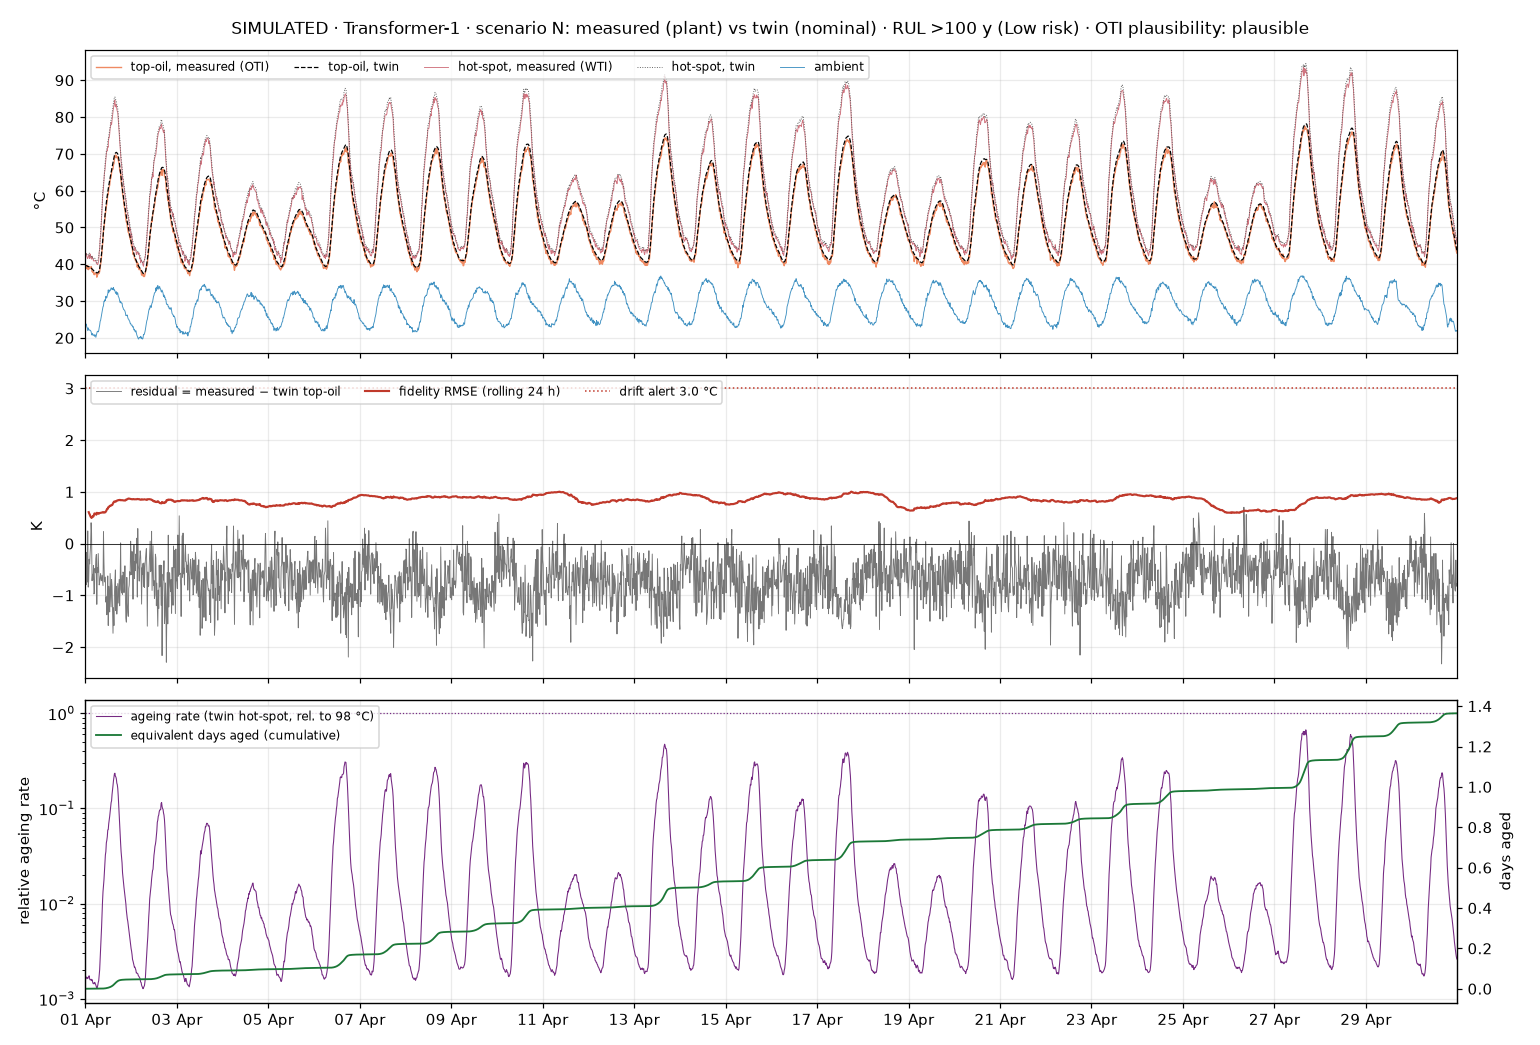
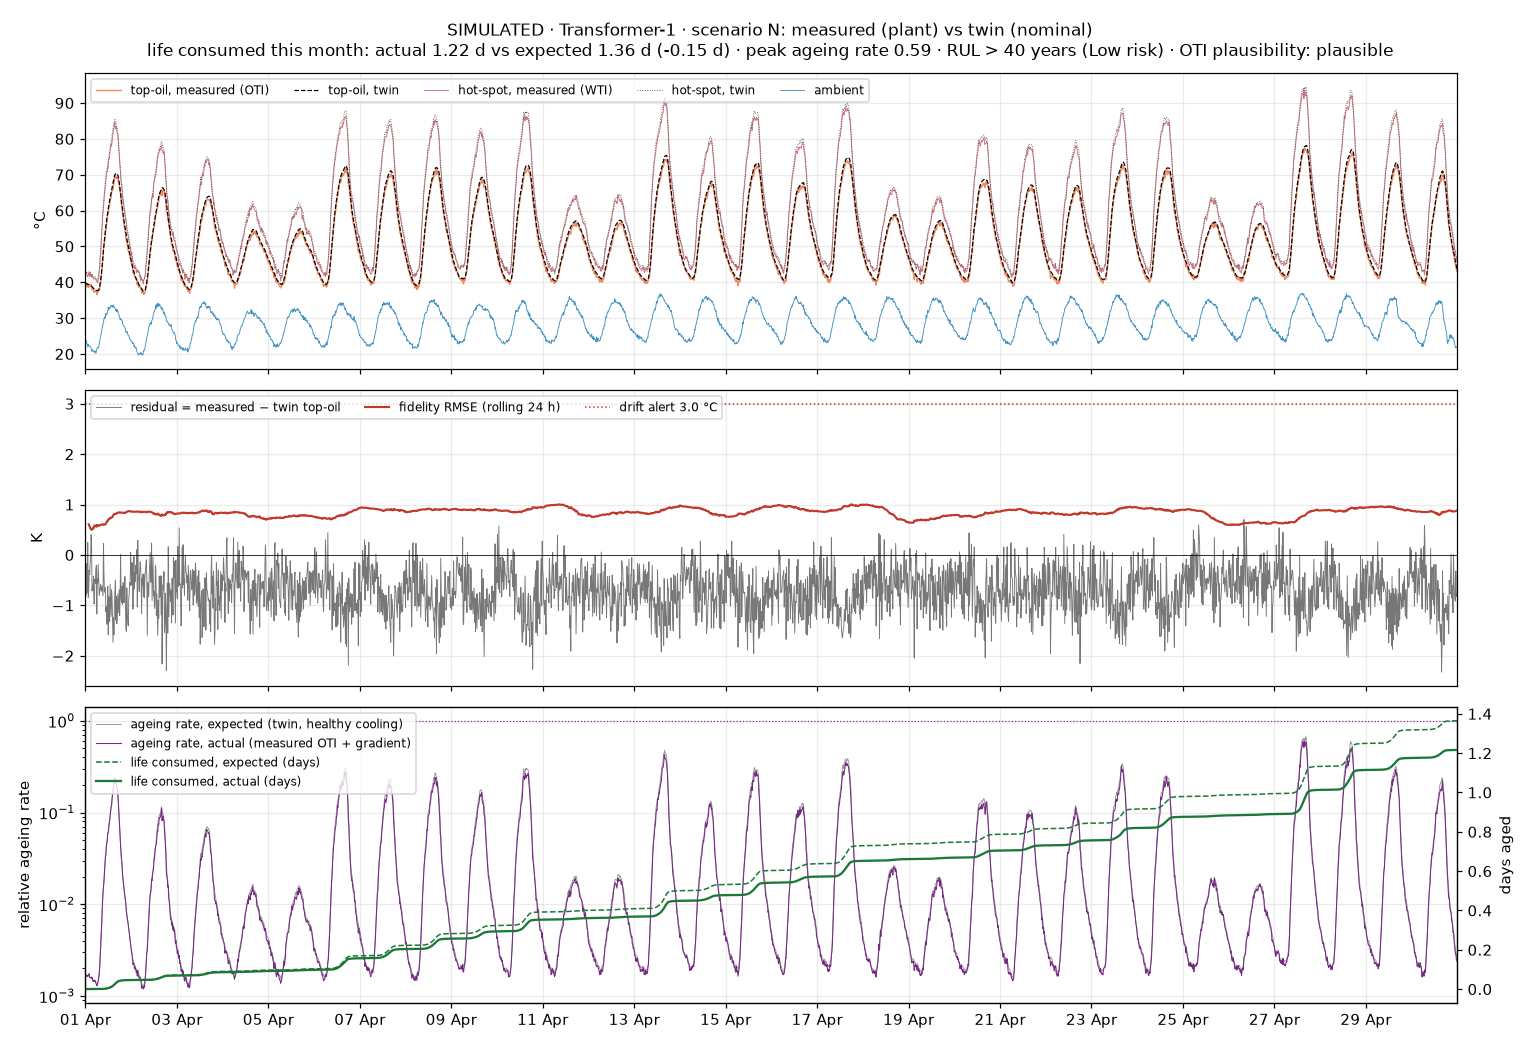
Actual vs expected ageing; RUL display cap
- actual ageing from measured OTI + twin winding gradient, per row, only where
  the OTI channel has passed the plausibility check (causal warm-up) and the row
  has no sensor-fault flag and is not below the physics band; otherwise twin
- life consumed per period (expected vs actual); S2 cooling fault: +0.45 d/month
- RUL from actual ageing; display capped at "> 40 years", raw value kept
- Kaggle plateau rows never age on measured OTI; 76 tests pass

diff --git a/twin/engine.py b/twin/engine.py
@@ -6,6 +6,14 @@
 Per timestep (§7.2): twin_oil_C, twin_hs_C, aging_rate, days_aged_cum, residual_oil_C (= OTI − twin, NaN in
 meter-only), fidelity_rmse_C (rolling 24 h), load_pu; plus twin_restart, fidelity_alert and the physics
 plausibility band (rise_low_K / rise_high_K, implausible_rise; PRD §7.4).
+
+Two ageing figures (IEC 60076-7 practice: hot-spot = measured top-oil + winding gradient when top-oil is trustworthy):
+  expected (aging_rate, days_aged_cum): twin hot-spot = healthy cooling.
+  actual (aging_rate_actual, days_aged_actual_cum): measured OTI + twin gradient (twin_hs - twin_oil), per row, only
+  where the OTI channel has passed the plausibility check so far (causal, after a warm-up), the row has no sensor-fault
+  flag and is not below the physics band (a rise above it may be a real asset fault, e.g. cooling, so it is kept);
+  otherwise the twin hot-spot (see ageing_source).
+The gap actual - expected is the life a fault cost. RUL uses actual ageing.
 Twin parameters are nominal (asset.yaml + library defaults); the generator's plant is deliberately different.
 """
 from collections import deque
@@ -22,7 +30,8 @@ from twin import ageing, plausibility, rul, thermal
 ROOT = Path(__file__).resolve().parent.parent
 DRIFT_MESSAGE = "model drift — check cooling / recalibrate"
 OUT_COLS = ["twin_oil_C", "twin_hs_C", "aging_rate", "days_aged_cum", "residual_oil_C", "fidelity_rmse_C",
-            "load_pu", "twin_restart", "fidelity_alert", "dt_min", "rise_low_K", "rise_high_K", "implausible_rise"]
+            "load_pu", "twin_restart", "fidelity_alert", "dt_min", "rise_low_K", "rise_high_K", "implausible_rise",
+            "hs_ageing_C", "ageing_source", "aging_rate_actual", "days_aged_actual_cum"]
 
 
 def load_config(path=ROOT / "config" / "twin.yaml") -> dict:
@@ -32,6 +41,14 @@ def load_config(path=ROOT / "config" / "twin.yaml") -> dict:
 def _band_transformer(i_rated, p):
     return thermal.make_transformer(i_rated, 1000.0 * p["R"], 1000.0, top_oil_temp_rise=p["top_oil_temp_rise"],
                                     amb_temp_surcharge=p["amb_temp_surcharge"])
+
+
+def life_consumed(res: pd.DataFrame) -> dict:
+    """Equivalent days of insulation life used over the period: expected (healthy twin) vs actual (measured)."""
+    exp = float(res["days_aged_cum"].iloc[-1]) if len(res) else 0.0
+    act = float(res["days_aged_actual_cum"].iloc[-1]) if len(res) else 0.0
+    return {"expected": round(exp, 3), "actual": round(act, 3), "actual_minus_expected": round(act - exp, 3),
+            "measured_share": round(float((res["ageing_source"] == "measured").mean()), 3) if len(res) else 0.0}
 
 
 def _bad_temp(flags: str) -> bool:
@@ -96,6 +113,16 @@ class TwinEngine:
         ok = ~np.isnan(rise) & ~np.isnan(out["rise_low_K"]) & ~flags.map(_bad_temp).to_numpy()
         tol = plausibility.TOL_K
         out["implausible_rise"] = ok & ((rise < out["rise_low_K"] - tol) | (rise > out["rise_high_K"] + tol))
+        n_ev, n_bad = np.cumsum(ok), np.cumsum(out["implausible_rise"])
+        channel_ok = (n_ev >= self.cfg["plausibility_warmup_rows"]) & (n_bad <= plausibility.SUSPECT_FRACTION * n_ev)
+        use = ok & ~(rise < out["rise_low_K"] - tol) & channel_ok   # below band = impossible = sensor; above = maybe asset fault
+        out["hs_ageing_C"] = np.where(use, oti + out["twin_hs_C"] - out["twin_oil_C"], out["twin_hs_C"])
+        out["ageing_source"] = np.where(use, "measured", np.where(valid, "twin", ""))
+        out["aging_rate_actual"] = np.full(n, np.nan)
+        if len(vi):
+            out["aging_rate_actual"][vi] = ageing.rate(out["hs_ageing_C"][vi], self.insulation)
+        out["days_aged_actual_cum"] = np.cumsum(
+            np.where(valid, np.nan_to_num(out["aging_rate_actual"]) * np.nan_to_num(out["dt_min"]) / 1440, 0.0))
         res = pd.concat([t, pd.DataFrame(out)], axis=1)
         res.attrs.update(self._summary(res, mode, ok))
         return res
@@ -106,7 +133,8 @@ class TwinEngine:
         verdict = ("not checked" if not n_ev else "suspect" if frac > plausibility.SUSPECT_FRACTION else "plausible")
         r = rul.estimate(res, self.asset.get("years_in_service", 0), self.cfg)
         drift = bool(res["fidelity_alert"].any())
-        return {"mode": mode, "rul": r, "plausibility": {"OTI_C": verdict, "implausible_fraction": frac,
+        return {"mode": mode, "rul": r, "rul_display": rul.display(r, self.cfg),
+                "life_consumed_days": life_consumed(res), "plausibility": {"OTI_C": verdict, "implausible_fraction": frac,
                                                           "evaluable_rows": n_ev},
                 "fidelity_rmse_C_last": float(res["fidelity_rmse_C"].dropna().iloc[-1]) if res["fidelity_rmse_C"].notna().any() else None,
                 "drift_message": DRIFT_MESSAGE if drift else None,
@@ -118,6 +146,7 @@ class TwinEngine:
         self._band_st = {k: thermal.Stepper(tr) for k, tr in self.bands.items()}
         self._last_valid_ts = None
         self._cum = 0.0
+        self._cum_act = 0.0
         self._sq = deque()           # (ts, residual²) inside the fidelity window
         self._hist = []              # rows for RUL
         self._ev = [0, 0]            # evaluable, implausible (plausibility verdict)
@@ -131,7 +160,7 @@ class TwinEngine:
         oti = np.nan if oti is None or mode == "meter_only" else float(oti)
         mode = mode or ("full" if not np.isnan(oti) else "meter_only")
         tw = {c: np.nan for c in OUT_COLS}
-        tw.update(twin_restart=False, fidelity_alert=False, implausible_rise=False)
+        tw.update(twin_restart=False, fidelity_alert=False, implausible_rise=False, ageing_source="")
         if not (np.isnan(amps) or np.isnan(amb)):
             gap = None if self._last_valid_ts is None else ts - self._last_valid_ts
             if gap is None or gap > pd.Timedelta(hours=self.cfg["restart_gap_h"]):
@@ -153,7 +182,17 @@ class TwinEngine:
                 tw["implausible_rise"] = bool(rise < tw["rise_low_K"] - tol or rise > tw["rise_high_K"] + tol)
                 self._ev[0] += 1
                 self._ev[1] += tw["implausible_rise"]
+                channel_ok = (self._ev[0] >= self.cfg["plausibility_warmup_rows"]
+                              and self._ev[1] <= plausibility.SUSPECT_FRACTION * self._ev[0])
+                use = channel_ok and not rise < tw["rise_low_K"] - tol   # only below-band rows fall back
+            else:
+                use = False
+            tw["hs_ageing_C"] = oti + hs - oil if use else hs
+            tw["ageing_source"] = "measured" if use else "twin"
+            tw["aging_rate_actual"] = float(ageing.rate(tw["hs_ageing_C"], self.insulation)[0])
+            self._cum_act += tw["aging_rate_actual"] * dt / 1440
         tw["days_aged_cum"] = self._cum
+        tw["days_aged_actual_cum"] = self._cum_act
         tw["load_pu"] = amps / self.i_rated
         tw["residual_oil_C"] = oti - tw["twin_oil_C"]
         win = pd.Timedelta(hours=self.cfg["fidelity_window_h"])
@@ -166,8 +205,8 @@ class TwinEngine:
         tw["fidelity_alert"] = bool(np.nan_to_num(tw["fidelity_rmse_C"]) > self.cfg["fidelity_alert_C"])
         if tw["fidelity_alert"]:
             tw["drift_message"] = DRIFT_MESSAGE
-        self._hist.append({"timestamp": ts, "aging_rate": tw["aging_rate"], "dt_min": tw["dt_min"],
-                           "days_aged_cum": tw["days_aged_cum"]})
+        self._hist.append({"timestamp": ts, "aging_rate_actual": tw["aging_rate_actual"], "dt_min": tw["dt_min"],
+                           "days_aged_actual_cum": tw["days_aged_actual_cum"]})
         return TwinState(timestamp=ts, row=row, twin=tw, mode=mode)
 
     def current_rul(self):

diff --git a/tests/test_engine.py b/tests/test_engine.py
@@ -7,10 +7,10 @@ from transformer_thermal_model.transformer import PaperInsulationType
 
 from twin import ageing
 from twin.engine import OUT_COLS, TwinEngine, load_config
-from twin.plot import load_generated
+from twin.plot import ROOT, load_generated
 
 NUM = ["twin_oil_C", "twin_hs_C", "aging_rate", "days_aged_cum", "residual_oil_C", "fidelity_rmse_C",
-       "load_pu", "dt_min", "rise_low_K", "rise_high_K"]
+       "load_pu", "dt_min", "rise_low_K", "rise_high_K", "hs_ageing_C", "aging_rate_actual", "days_aged_actual_cum"]
 CFG = load_config()
 
 
@@ -30,6 +30,7 @@ def assert_same(batch, streamed):
                                    equal_nan=True, err_msg=c)
     for c in ("twin_restart", "fidelity_alert", "implausible_rise"):
         assert (streamed[c].to_numpy(bool) == batch[c].to_numpy(bool)).all(), c
+    assert (streamed["ageing_source"].to_numpy() == batch["ageing_source"].to_numpy()).all()
 
 
 def test_run_equals_step(runs):
@@ -83,10 +84,38 @@ def test_cumulative_ageing_matches_library(runs):
 
 def test_rul_range_drops_under_overload(runs):
     n, s1 = runs["N"].attrs["rul"], runs["S1"].attrs["rul"]
-    assert n.years_low == CFG["rul_cap_years"]                 # normal load: not limited by thermal ageing
+    assert n.years_low > CFG["rul_display_cap_years"]               # normal load: not limited by thermal ageing
+    assert runs["N"].attrs["rul_display"] == f"RUL > {CFG['rul_display_cap_years']:g} years"   # display capped
     assert s1.years_low < n.years_low and s1.recent_rate > n.recent_rate
-    assert s1.years_low <= s1.years_high
-    assert n.consumed_days == pytest.approx(3 * 365.25 + runs["N"]["days_aged_cum"].iloc[-1], abs=0.01)
+    assert s1.years_low < CFG["rul_display_cap_years"] <= s1.years_high   # range shown, raw values kept
+    assert n.consumed_days == pytest.approx(3 * 365.25 + runs["N"]["days_aged_actual_cum"].iloc[-1], abs=0.01)
+
+
+def test_actual_vs_expected_ageing(runs):
+    n, s2 = runs["N"], runs["S2"]
+    ln, l2 = n.attrs["life_consumed_days"], s2.attrs["life_consumed_days"]
+    assert ln["actual"] == pytest.approx(ln["expected"], rel=0.15)          # Normal: match within plant mismatch/noise
+    assert l2["actual"] > l2["expected"] + 0.3                               # S2: cooling fault costs life
+    onset = s2.loc[s2["gt_fault"] == 1, "timestamp"].min()
+    after = s2["timestamp"] >= onset
+    gain = (s2["days_aged_actual_cum"] - s2["days_aged_cum"])
+    assert gain[after].iloc[-1] - gain[~after].iloc[-1] > 0.3                # the gap opens after onset
+    assert s2.loc[after & (s2["ageing_source"] == "measured"), "aging_rate_actual"].mean() > \
+        s2.loc[after & (s2["ageing_source"] == "measured"), "aging_rate"].mean()
+    # S2's rise climbs above the healthy-design band: those rows stay on measured, not on the twin
+    assert (s2.loc[after, "ageing_source"] == "measured").mean() > 0.95
+
+
+def test_kaggle_plateaus_fall_back_to_twin():
+    k = pd.read_parquet(ROOT / "data" / "clean" / "kaggle.parquet")
+    asset = {"i_rated_A": 214.7, "load_loss_W": 2300.0, "no_load_loss_W": 350.0,   # placeholder losses [Assumed]
+             "years_in_service": 3}
+    r = TwinEngine(asset).run(k)
+    plateau = r["OTI_C"] > 150
+    assert plateau.sum() > 0 and not (r.loc[plateau, "ageing_source"] == "measured").any()  # twin, or blank if no load
+    assert (r["ageing_source"] == "measured").sum() == 0                     # channel never passes: twin throughout
+    np.testing.assert_allclose(r["days_aged_actual_cum"], r["days_aged_cum"])
+    assert r.attrs["plausibility"]["OTI_C"] == "suspect"
 
 
 def test_meter_only_mode(runs):

diff --git a/twin/plot.py b/twin/plot.py
@@ -42,11 +42,13 @@ def plot(sid: str) -> Path:
     ax[1].axhline(0, color="k", lw=0.5)
     ax[1].set_ylabel("K")
     ax[1].legend(ncol=3, fontsize=8, loc="upper left")
-    ax[2].semilogy(x, r["aging_rate"], color="#762a83", lw=0.7, label="ageing rate (twin hot-spot, rel. to 98 °C)")
+    ax[2].semilogy(x, r["aging_rate"], color="#999", lw=0.6, label="ageing rate, expected (twin, healthy cooling)")
+    ax[2].semilogy(x, r["aging_rate_actual"], color="#762a83", lw=0.7, label="ageing rate, actual (measured OTI + gradient)")
     ax[2].axhline(1, color="#762a83", ls=":", lw=0.8)
     ax[2].set_ylabel("relative ageing rate")
     a2 = ax[2].twinx()
-    a2.plot(x, r["days_aged_cum"], color="#1b7837", lw=1.2, label="equivalent days aged (cumulative)")
+    a2.plot(x, r["days_aged_cum"], color="#1b7837", lw=1.0, ls="--", label="life consumed, expected (days)")
+    a2.plot(x, r["days_aged_actual_cum"], color="#1b7837", lw=1.5, label="life consumed, actual (days)")
     a2.set_ylabel("days aged")
     h1, l1 = ax[2].get_legend_handles_labels()
     h2, l2 = a2.get_legend_handles_labels()
@@ -68,11 +70,12 @@ def plot(sid: str) -> Path:
     for a in ax:
         a.grid(alpha=0.25)
         a.margins(x=0)
-    cap = load_config()["rul_cap_years"]
-    fmt = lambda y: f">{cap:g}" if y >= cap else f"{y:g}"  # noqa: E731
-    fig.suptitle(f"SIMULATED · Transformer-1 · scenario {sid}: measured (plant) vs twin (nominal) · "
-                 f"RUL {fmt(ru.years_low) if ru.years_low == ru.years_high else fmt(ru.years_low) + '–' + fmt(ru.years_high)} y ({ru.risk} risk) · "
-                 f"OTI plausibility: {r.attrs['plausibility']['OTI_C']}", fontsize=11)
+    lc = r.attrs["life_consumed_days"]
+    fig.suptitle(f"SIMULATED · Transformer-1 · scenario {sid}: measured (plant) vs twin (nominal)\n"
+                 f"life consumed this month: actual {lc['actual']:.2f} d vs expected {lc['expected']:.2f} d "
+                 f"({lc['actual_minus_expected']:+.2f} d) · peak ageing rate {r['aging_rate_actual'].max():.2f} · "
+                 f"{r.attrs['rul_display']} ({ru.risk} risk) · OTI plausibility: {r.attrs['plausibility']['OTI_C']}",
+                 fontsize=11)
     fig.tight_layout()
     out = ROOT / "docs" / "figures" / f"twin_{sid}.png"
     fig.savefig(out, dpi=110)

diff --git a/twin/rul.py b/twin/rul.py
@@ -1,6 +1,6 @@
 """Remaining useful life from thermal ageing (FINAL_PRD.md §8.9). A range, never a date.
 
-consumed = assumed service years (at ageing rate 1) + equivalent days aged in the data
+consumed = assumed service years (at ageing rate 1) + ACTUAL equivalent days aged in the data
 RUL      = (reference life − consumed) / recent ageing rate, recent = last 7 days
 range    = remaining / highest daily rate  …  remaining / lowest daily rate in that window
 Thermal ageing only: no moisture, PD or DGA. Under normal load the rate is ≪ 1, so RUL is long — that is correct.
@@ -12,11 +12,12 @@ from contracts.models import RUL
 
 
 def estimate(twin: pd.DataFrame, years_in_service: float, cfg: dict) -> RUL | None:
-    t = twin.dropna(subset=["aging_rate"])
+    t = (twin[["timestamp", "aging_rate_actual", "dt_min"]].dropna(subset=["aging_rate_actual"])
+         .rename(columns={"aging_rate_actual": "aging_rate"}))
     if t.empty:
         return None
     ref_days = cfg["reference_life_h"] / 24
-    consumed = years_in_service * 365.25 + float(twin["days_aged_cum"].dropna().iloc[-1])
+    consumed = years_in_service * 365.25 + float(twin["days_aged_actual_cum"].dropna().iloc[-1])
     remaining = max(ref_days - consumed, 0.0)
     end = t["timestamp"].iloc[-1]
     w = t[t["timestamp"] > end - pd.Timedelta(days=cfg["rul_window_days"])]
@@ -35,3 +36,13 @@ def estimate(twin: pd.DataFrame, years_in_service: float, cfg: dict) -> RUL | No
     risk = "High" if lo < cfg["risk_years"]["high"] else "Med" if lo < cfg["risk_years"]["medium"] else "Low"
     return RUL(years_low=round(lo, 2), years_high=round(hi, 2), risk=risk,
                consumed_days=round(consumed, 2), recent_rate=round(recent, 4))
+
+
+def display(r: RUL | None, cfg: dict) -> str:
+    """Dashboard text. Primary figures are life consumed and ageing rate; RUL is capped for display only."""
+    if r is None:
+        return "RUL: not available"
+    cap = cfg["rul_display_cap_years"]
+    f = lambda y: f"> {cap:g}" if y >= cap else f"{y:.1f}"  # noqa: E731
+    lo, hi = f(r.years_low), f(r.years_high)
+    return f"RUL {lo} years" if lo == hi else f"RUL {lo} – {hi} years"

diff --git a/docs/assumptions.md b/docs/assumptions.md
@@ -61,6 +61,19 @@ above 5 °C. [Assumed] Code: `ingest/validate.py`.
 
 **A13. Kaggle location: Hyderabad.** [Assumed] ATI fits Hyderabad weather (daily corr 0.63) far better than Bengaluru (0.27).
 
+## Twin engine
+
+**A14. Actual ageing uses measured top-oil + the twin's winding gradient** (IEC 60076-7 practice), per row, only where
+the OTI channel has passed the plausibility check so far (causal: ≥ 96 evaluable rows, ≤ 50 % outside the band), the
+row has no sensor-fault flag (RANGE/JUMP/STUCK OTI or ATI) and its rise is **not below** the physics band. Otherwise the
+twin hot-spot is used. A rise *above* the band is kept on measured: it may be a real asset fault (S2 cooling runs
+hotter than any healthy design), and falling back there would hide the fault's cost. [Assumed]
+Both are reported: expected (twin, healthy cooling) and actual; RUL uses actual. On Normal, actual is ~11 % below
+expected because the generated plant is deliberately slightly cooler than the nominal twin.
+
+**A15. RUL display capped at "> 40 years"**; the raw value (numeric guard 1000 y) stays in reports. Primary figures on the
+dashboard are life consumed in the period (days, expected vs actual) and the ageing rate. [Assumed]
+
 ## Weather
 
 **A11. Site point for Transformer-1 weather: Bengaluru city (12.97 N, 77.59 E)**, Open-Meteo archive, cached

diff --git a/FINAL_PRD.md b/FINAL_PRD.md
@@ -169,6 +169,7 @@ Input load = `I_mean` (A). Thin wrapper `twin/thermal.py` so the library can be 
 
 ### 7.2 Outputs per timestep
 `twin_oil_C`, `twin_hs_C`, `aging_rate`, `days_aged_cum`, `residual_oil_C` (= OTI − twin, NaN in meter-only), `fidelity_rmse_C` (rolling 24 h), `load_pu`.
+Also (implemented): `aging_rate_actual` / `days_aged_actual_cum` from measured OTI + twin gradient where OTI is trusted (`ageing_source`), so a cooling fault shows as life consumed (S2: 1.82 d actual vs 1.36 d expected in the month); `rise_low_K`/`rise_high_K`/`implausible_rise` (§7.4); `twin_restart`; `fidelity_alert`. RUL uses actual ageing; display capped at "> 40 years" (docs/assumptions.md A14–A15).
 
 Fidelity above threshold → dashboard: **"model drift — check cooling / recalibrate."** (CIGRE JWG A2/D2.65 "reality gap" framing.)
 
